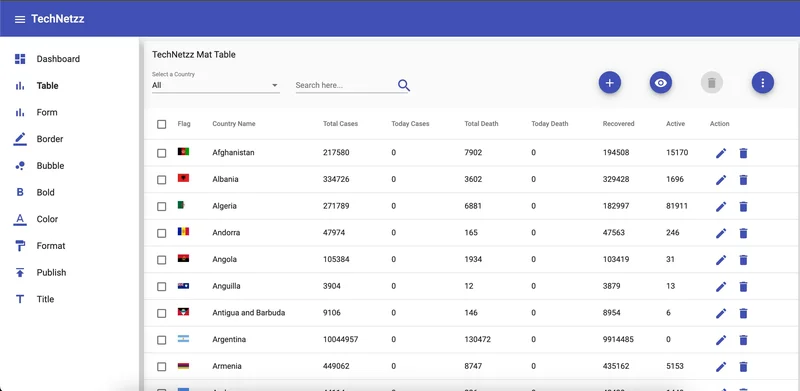
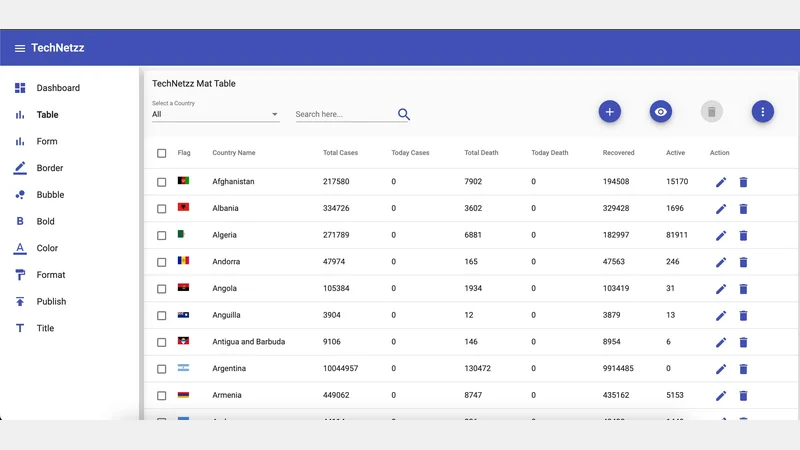
Fill

diff --git a/optimise.py b/optimise.py
@@ -2,9 +2,10 @@ import os
 from PIL import Image
 
 
-def resize_and_convert_images(source_folder, max_width=800, max_height=450):
+def fill_and_resize_images_with_background(source_folder, max_width=800, max_height=450, background_color=(240, 240, 240)):
     """
-    This function resize a given image to 800 X 450
+    This function resizes and pads an image to fit within 800 x 450 pixels, maintaining aspect ratio.
+    It adds padding with the specified background color to meet the max dimensions if needed.
     """
     for root, dirs, files in os.walk(source_folder):
         for file in files:
@@ -13,27 +14,38 @@ def resize_and_convert_images(source_folder, max_width=800, max_height=450):
                 webp_file_path = os.path.splitext(file_path)[0] + '.webp'
                 try:
                     with Image.open(file_path) as img:
+                        # Ensure the image has an alpha channel if needed
+                        img = img.convert('RGBA')
+
                         # Calculate the aspect ratio
                         aspect_ratio = img.width / img.height
 
-                        # Determine new dimensions based on max width and max height
-                        if img.width > max_width or img.height > max_height:
-                            if aspect_ratio > 1:  # Landscape orientation
-                                new_width = min(max_width, img.width)
-                                new_height = int(new_width / aspect_ratio)
-                            else:  # Portrait orientation
-                                new_height = min(max_height, img.height)
-                                new_width = int(new_height * aspect_ratio)
+                        # Resize image based on aspect ratio
+                        if aspect_ratio > 1:
+                            new_width = min(max_width, img.width)
+                            new_height = int(new_width / aspect_ratio)
+                        else:
+                            new_height = min(max_height, img.height)
+                            new_width = int(new_height * aspect_ratio)
 
-                            # Resize the image
-                            img = img.resize((new_width, new_height), Image.Resampling.LANCZOS)
+                        img = img.resize((new_width, new_height), Image.Resampling.LANCZOS)
+
+                        # Create new image with max dimensions and specified background color
+                        new_img = Image.new('RGB', (max_width, max_height), background_color)
+
+                        # Calculate paste position to center the image
+                        paste_x = (max_width - new_width) // 2
+                        paste_y = (max_height - new_height) // 2
+
+                        # Paste the resized image onto the background image
+                        new_img.paste(img.convert('RGB'), (paste_x, paste_y))
 
                         # Save the image as WebP
-                        img.save(webp_file_path, 'webp', optimize=True, quality=85)
+                        new_img.save(webp_file_path, 'webp', optimize=True, quality=85)
+
                     print(f'Converted and resized {file_path} to {webp_file_path}')
                 except Exception as e:
                     print(f'Failed to convert {file_path}: {e}')
-
 
 def crop_from_l_t_r_b(source_folder, max_width=800, max_height=450):
     """
@@ -110,7 +122,7 @@ def crop_from_r_b(source_folder, max_width=800, max_height=450):
                     print(f'Failed to convert {file_path}: {e}')    
 
 if __name__ == "__main__":
-    resize_and_convert_images("netzz/resize")
+    fill_and_resize_images_with_background("netzz/resize")
     # crop_from_l_t_r_b(source_folder)
     # crop_from_r_b("netzz/crop_from_r_b")
 
